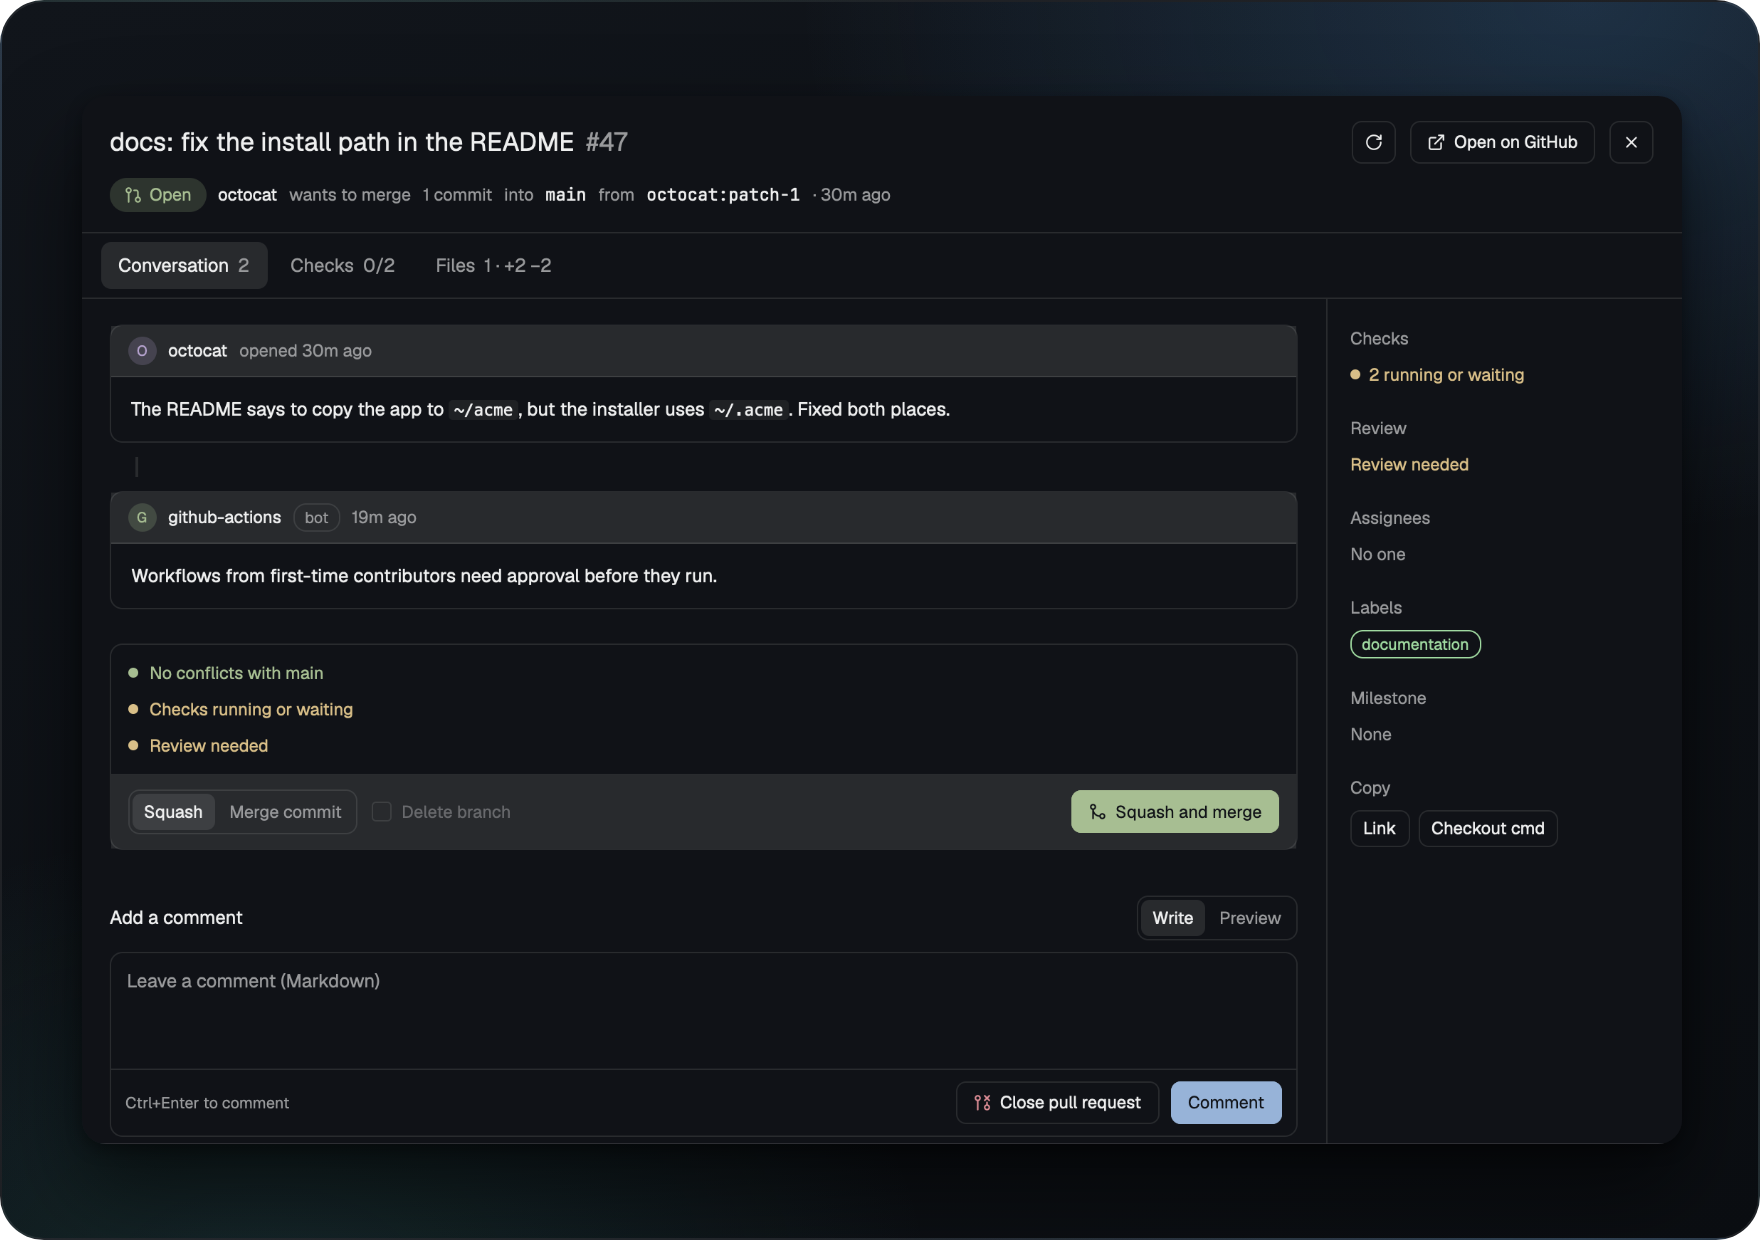
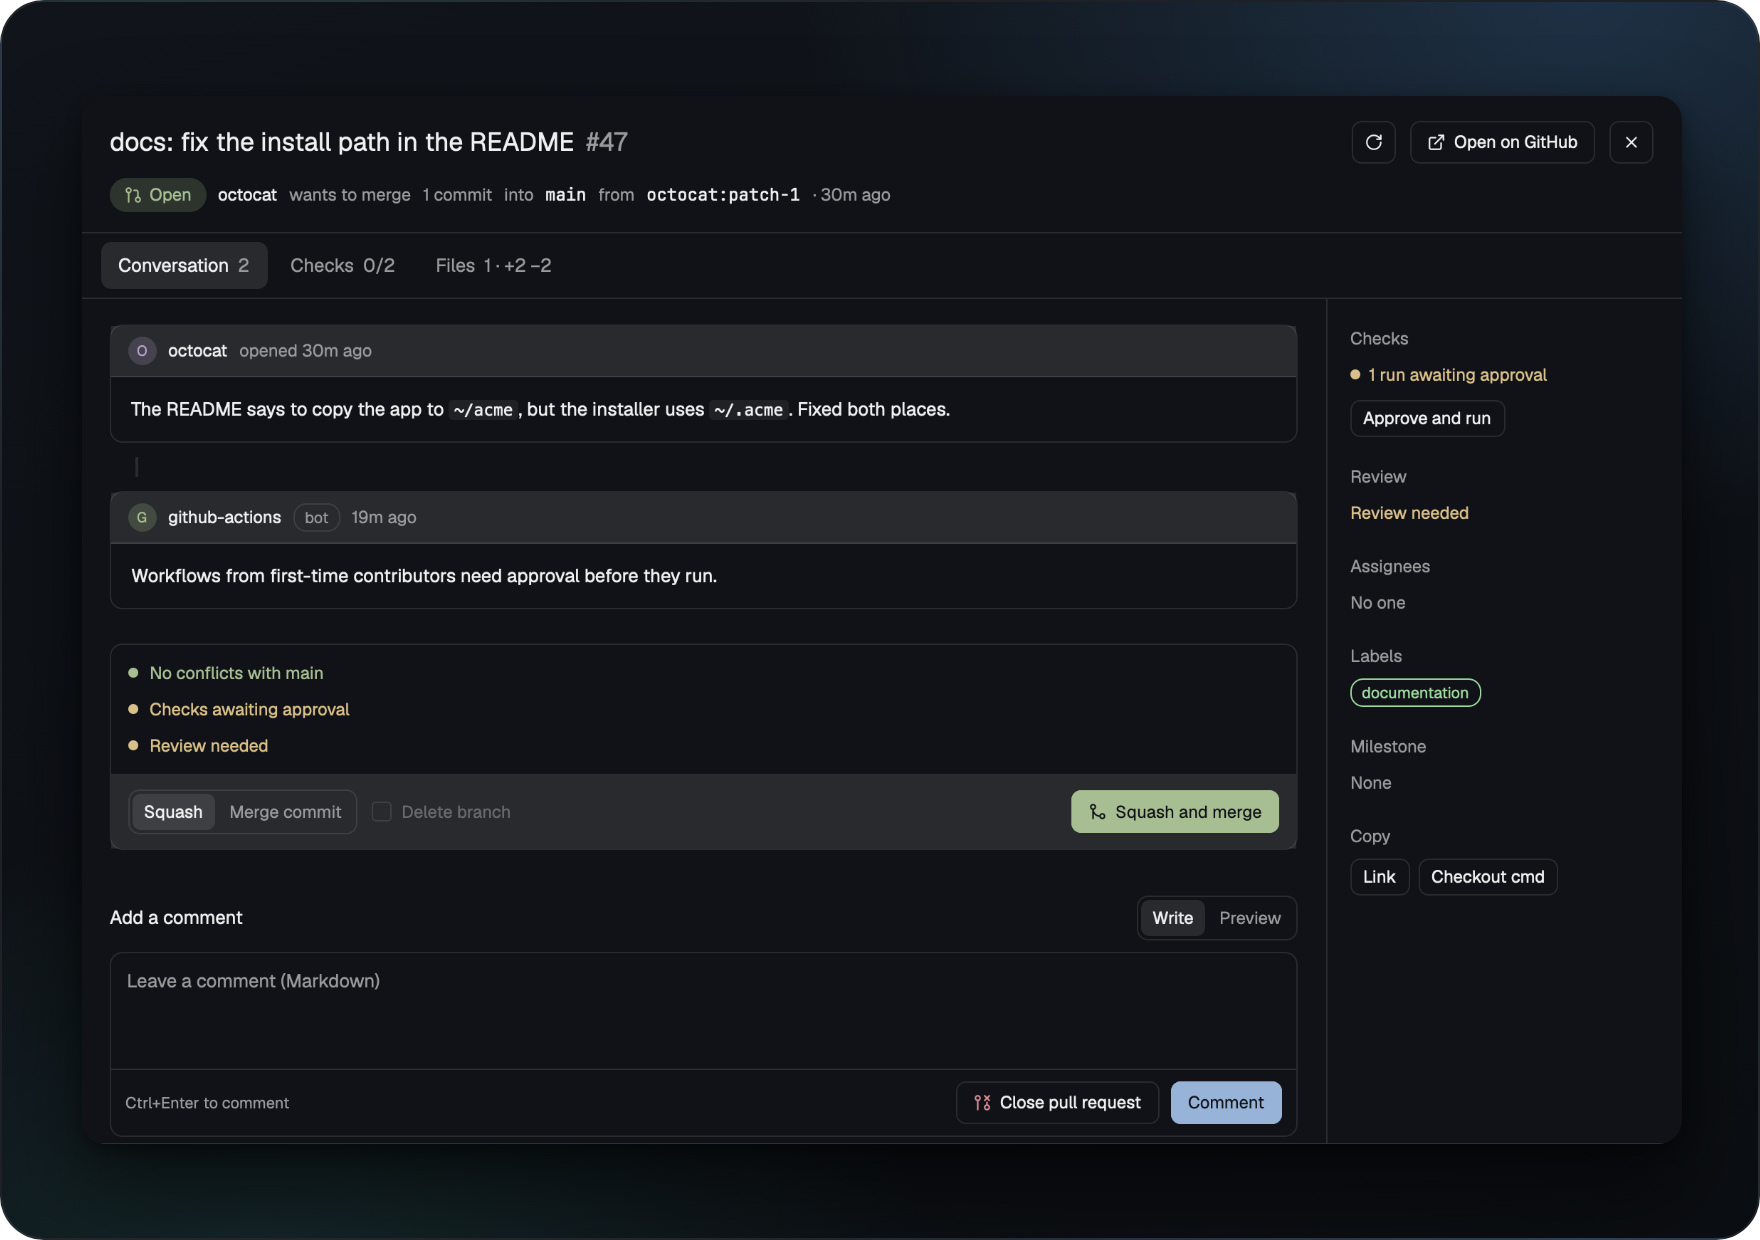
feat: approve and run workflow runs from the pull request overlay
Workflow runs of first-time contributors and forks wait for approval.
The overlay now shows how many wait and an Approve and run button; the
first click names whose code will run on the repository's runners, the
second approves every waiting run with
gh api -X POST repos/<repo>/actions/runs/<id>/approve.

- lib/approve.js: the query for waiting runs of the head commit, their
  ids, and the approve call (run ids only)
- merge box: "Checks awaiting approval" instead of the pending line
- guide: what approving means on GitHub-hosted and self-hosted runners
- fake gh and screenshot of the pull request overlay updated

diff --git a/mods/ghchecker/viewer.js b/mods/ghchecker/viewer.js
@@ -13,11 +13,12 @@ import { entries, tally, loginOf } from "./lib/timeline.js";
 import { split, linkRefs } from "./lib/markdown.js";
 import { hostOf } from "./lib/images.js";
 import { mergeMethods, preferredMethod, mergeBlocked, canDeleteBranch, mergeArgs } from "./lib/merge.js";
+import { awaitingPath, awaitingRuns, approveArgs } from "./lib/approve.js";
 import { ago, duration } from "./lib/time.js";
 
 const FIELDS = {
   issue: "number,title,body,author,state,stateReason,labels,assignees,createdAt,updatedAt,comments,url,milestone,closedByPullRequestsReferences,reactionGroups",
-  pr: "number,title,body,author,state,isDraft,labels,assignees,createdAt,updatedAt,comments,url,milestone,reactionGroups,headRefName,baseRefName,headRepositoryOwner,isCrossRepository,additions,deletions,changedFiles,files,commits,reviewDecision,statusCheckRollup,mergeable,reviewRequests,reviews,closingIssuesReferences,mergedAt",
+  pr: "number,title,body,author,state,isDraft,headRefOid,labels,assignees,createdAt,updatedAt,comments,url,milestone,reactionGroups,headRefName,baseRefName,headRepositoryOwner,isCrossRepository,additions,deletions,changedFiles,files,commits,reviewDecision,statusCheckRollup,mergeable,reviewRequests,reviews,closingIssuesReferences,mergedAt",
 };
 const INFO = "squashMergeAllowed,mergeCommitAllowed,rebaseMergeAllowed,deleteBranchOnMerge";
 const LINK = /^https:\/\/github\.com\/([\w.-]+\/[\w.-]+)\/(issues|pull)\/(\d+)(?:[/?#].*)?$/;
@@ -64,6 +65,10 @@ export class Viewer {
         if (kind === "issue" && item.url.includes("/pull/")) { this.kind = "pr"; return this.load(cx); } // #12 can be a pull request
         Object.assign(item, { repo: this.repo }, kind === "pr" ? { checks: checksOf(item) } : {});
         this.items[key] = item;
+        // Runs of an open pull request that wait for approval (Approve and run).
+        if (kind === "pr" && upper(item.state) === "OPEN" && item.headRefOid) {
+          item.awaiting = awaitingRuns(await ghJson(["api", awaitingPath(this.repo, item.headRefOid)]).catch(() => null));
+        }
         if (pages) this.threads[key] = entries(pages.flat());
         if (still()) this.item = item;
       } catch (e) { if (still()) this.error = String(e?.message ?? e); }
@@ -135,6 +140,22 @@ export class Viewer {
     keepMethod(method);
     this.act("Merging", mergeArgs(this.number, this.repo, method, this.deleteBranch && canDeleteBranch(this.item)), cx,
       () => notify({ title: "Pull request merged", body: `${this.repo}#${this.number}`, level: "success", timeout: 3000 }));
+  }
+
+  // Approve and run: a first click asks (the pull request's code runs on the repository's runners), the second
+  // approves every waiting run.
+  approve(cx) {
+    if (!this.approving) { this.approving = true; cx.notify(); return; }
+    this.approving = false;
+    const runs = this.item?.awaiting ?? [], repo = this.repo, key = this.key();
+    if (this.busy || !runs.length) return;
+    this.busy = "Approving"; this.error = null;
+    cx.spawn(async (cx) => {
+      try { for (const r of runs) await gh(approveArgs(repo, r.id)); notify({ title: "Runs approved", body: `${runs.length} workflow run${runs.length === 1 ? "" : "s"} of #${this.number}`, level: "success", timeout: 3000 }); }
+      catch (e) { this.error = String(e?.message ?? e); }
+      finally { this.busy = null; setShared("ghchecker.changed", { repo, at: Date.now() }); if (this.key() === key) this.load(cx); cx.notify(); }
+    });
+    cx.notify();
   }
 
   copy(cx, text, what) {
@@ -328,8 +349,9 @@ export class Viewer {
     const line = (color, text) => h_flex().gap(8).items_center().text_color(color).child(div().size(7).flex_none().rounded(4).bg(color)).child(text);
     const lines = v_flex().gap(6).px(12).py(10).text_size(12).border_b(1).border_color(t.border)
       .child(!known ? line(t.muted, "Checking for conflicts…") : conflict ? line(c.failure, `Conflicts with ${i.baseRefName}`) : line(c.success, `No conflicts with ${i.baseRefName}`))
-      .child(checks.state === "failure" ? line(c.failure, `${checks.failed.length} check${checks.failed.length === 1 ? "" : "s"} failed`)
-        : checks.state === "pending" ? line(c.running, "Checks running or waiting") : checks.state === "success" ? line(c.success, "All checks passed") : line(t.muted, "No checks"))
+      .when((i.awaiting ?? []).length > 0, (e) => e.child(line(c.running, "Checks awaiting approval")))
+      .when(!(checks.state === "pending" && (i.awaiting ?? []).length), (e) => e.child(checks.state === "failure" ? line(c.failure, `${checks.failed.length} check${checks.failed.length === 1 ? "" : "s"} failed`)
+        : checks.state === "pending" ? line(c.running, "Checks running or waiting") : checks.state === "success" ? line(c.success, "All checks passed") : line(t.muted, "No checks")))
       .child(line(c[review.tone], review.label === "No review" ? "No review required" : review.label))
       .when(Boolean(i.isDraft), (e) => e.child(line(t.muted, "Still a draft")));
     const bar = h_flex().gap(10).flex_wrap().items_center().px(12).py(10).bg(t.raised).text_size(12);
@@ -354,6 +376,19 @@ export class Viewer {
       .child(button("merge", label, t, (_e, cx) => this.merge(cx), { tone: c.success, enabled: !blocked && !busy, icon: "pr-merged", tooltip: fork ? "The branch lives in a fork: it stays" : null })));
   }
 
+  // The Checks part of a pull request whose runs wait for approval.
+  approval(i, t) {
+    const c = tones(t), n = i.awaiting.length, who = i.headRepositoryOwner?.login ?? i.author?.login ?? "the author", busy = Boolean(this.busy);
+    return v_flex().gap(8)
+      .child(h_flex().gap(6).items_center().text_color(c.running).child(div().size(7).rounded(4).bg(c.running)).child(`${n} run${n === 1 ? "" : "s"} awaiting approval`))
+      .when(!this.approving, (e) => e.child(h_flex().child(button("approve", "Approve and run", t, (_e, cx) => this.approve(cx), { small: true, enabled: !busy }))))
+      .when(Boolean(this.approving), (e) => e
+        .child(div().text_color(t.foreground).child(`Runs code from ${who} on this repository's runners. Read the changes first.`))
+        .child(h_flex().gap(6)
+          .child(button("approve-cancel", "Cancel", t, (_e, cx) => { this.approving = false; cx.notify(); }, { small: true }))
+          .child(button("approve-confirm", "Approve and run", t, (_e, cx) => this.approve(cx), { small: true, tone: c.running, enabled: !busy }))));
+  }
+
   // ---- the right column ----
   aside(i, t, cx) {
     const c = tones(t), pr = this.pr(), quiet = (text, color = null) => div().text_color(color ?? t.muted).child(text);
@@ -366,7 +401,7 @@ export class Viewer {
     const linked = pr ? i.closingIssuesReferences ?? [] : i.closedByPullRequestsReferences ?? [];
     return v_flex().id("aside").w(250).flex_none().min_h(0).overflow_y_scrollbar().border_l(1).border_color(t.border).px(16).py(18).gap(18).text_size(12)
       .when(pr, (e) => e
-        .child(part("Checks", checkLine))
+        .child(part("Checks", (i.awaiting ?? []).length ? this.approval(i, t) : checkLine))
         .child(part("Review", quiet(review.label, c[review.tone]))))
       .child(part("Assignees", (i.assignees ?? []).length ? v_flex().gap(6).children(i.assignees.map((a) => h_flex().gap(8).items_center()
         .child(this.face(a.login, null, 18, t, cx)).child(div().truncate().child(display(a.login))))) : quiet("No one")))

diff --git a/test/approve.test.js b/test/approve.test.js
@@ -1,0 +1,25 @@
+import { test } from "node:test";
+import assert from "node:assert/strict";
+import { awaitingPath, awaitingRuns, approveArgs } from "../mods/ghchecker/lib/approve.js";
+
+test("awaitingPath asks for the runs of the head commit that wait for approval", () => {
+  assert.equal(awaitingPath("acme/acme-app", "4b825dc6"), "repos/acme/acme-app/actions/runs?head_sha=4b825dc6&status=action_required&per_page=50");
+  assert.match(awaitingPath("acme/acme-app", "a&b=c"), /head_sha=a%26b%3Dc&/);
+});
+
+test("awaitingRuns keeps runs that wait for approval", () => {
+  const answer = { workflow_runs: [
+    { id: 1, name: "CI", status: "action_required", conclusion: null },
+    { id: 2, name: "Lint", status: "completed", conclusion: "action_required" },
+    { id: 3, name: "Deploy", status: "completed", conclusion: "success" },
+  ] };
+  assert.deepEqual(awaitingRuns(answer), [{ id: 1, name: "CI" }, { id: 2, name: "Lint" }]);
+  assert.deepEqual(awaitingRuns(null), []);
+  assert.deepEqual(awaitingRuns({}), []);
+});
+
+test("approveArgs: the gh call, only for a run id", () => {
+  assert.deepEqual(approveArgs("acme/acme-app", 9129), ["api", "-X", "POST", "repos/acme/acme-app/actions/runs/9129/approve"]);
+  assert.deepEqual(approveArgs("acme/acme-app", "42")[3], "repos/acme/acme-app/actions/runs/42/approve");
+  for (const bad of ["1/../x", "abc", 0, -3, null]) assert.throws(() => approveArgs("acme/acme-app", bad), /not a run id/, String(bad));
+});

diff --git a/mods/ghchecker/lib/approve.js b/mods/ghchecker/lib/approve.js
@@ -1,0 +1,20 @@
+// "Approve and run": workflow runs of a pull request that wait for a maintainer's approval (first-time
+// contributors, forks). GitHub marks them action_required; approving runs the pull request's code on the
+// repository's runners.
+
+const ACTION_REQUIRED = "action_required";
+
+// The API query for the runs of a commit that wait for approval.
+export const awaitingPath = (repo, sha) => `repos/${repo}/actions/runs?head_sha=${encodeURIComponent(sha)}&status=${ACTION_REQUIRED}&per_page=50`;
+
+// The ids of the runs that wait, from that query's answer (status or conclusion action_required).
+export function awaitingRuns(answer) {
+  return (answer?.workflow_runs ?? []).filter((r) => r.status === ACTION_REQUIRED || r.conclusion === ACTION_REQUIRED)
+    .map((r) => ({ id: r.id, name: r.name ?? r.display_title ?? "workflow" }));
+}
+
+// gh api -X POST repos/<repo>/actions/runs/<id>/approve
+export function approveArgs(repo, id) {
+  if (!Number.isInteger(Number(id)) || Number(id) <= 0) throw new Error(`not a run id: ${id}`);
+  return ["api", "-X", "POST", `repos/${repo}/actions/runs/${Number(id)}/approve`];
+}

diff --git a/test/screenshot-hook.test.js b/test/screenshot-hook.test.js
@@ -58,7 +58,8 @@ test("the fake gh answers every call the panel makes", () => {
   assert.equal(gh("api", "user", "--jq", ".login").stdout.trim(), "mona");
   for (const args of [["issue", "list", "-R", "acme/acme-app", "--state", "open"], ["pr", "list", "-R", "acme/acme-app", "--state", "merged"], ["run", "list", "-R", "acme/acme-app"],
     ["api", "repos/acme/acme-app/milestones?state=all&per_page=100"], ["repo", "view", "acme/acme-app"], ["pr", "view", "47"], ["issue", "view", "46"], ["run", "view", "9127", "--json", "jobs"],
-    ["api", "--paginate", "--slurp", "repos/acme/acme-app/issues/47/timeline?per_page=100"]]) {
+    ["api", "--paginate", "--slurp", "repos/acme/acme-app/issues/47/timeline?per_page=100"],
+    ["api", "repos/acme/acme-app/actions/runs?head_sha=4b825dc642cb6eb9a060e54bf8d69288fbee4904&status=action_required&per_page=50"]]) {
     const r = gh(...args);
     assert.equal(r.status, 0, args.join(" "));
     assert.doesNotThrow(() => JSON.parse(r.stdout), args.join(" "));

diff --git a/docs/GUIDE.md b/docs/GUIDE.md
@@ -8,7 +8,7 @@ Everything GitHub Checker does, in detail. For the overview, see the [README](..
 - [Install](#install): [Manual install](#manual-install)
 - [The panel](#the-panel): [Following the tab](#following-the-tab), [Syncing](#syncing), [Status bar](#status-bar)
 - [Issues](#issues)
-- [Pull requests](#pull-requests): [Merge box](#merge-box)
+- [Pull requests](#pull-requests): [Approve and run](#approve-and-run), [Merge box](#merge-box)
 - [Actions](#actions)
 - [Keys](#keys)
 - [Settings](#settings)
@@ -93,6 +93,10 @@ At the bottom, the same on every tab: stars, forks, watchers, open issues, open 
 - **Each row:** state icon (open, draft, merged, closed), labels, `head → base` (`owner:branch` for a fork), the checks (`2 failed`, `Running`, `Waiting`, `Passed`, `No checks`) and the review decision.
 - **The overlay** has three sections: **Conversation**, **Checks** (each check with its time; a click opens it on GitHub) and **Files** (with lines added and removed). On the right: checks, review, assignees, labels, milestone, the issues it closes, and Copy for the link and `gh pr checkout <n> -R <repo>`.
 
+### Approve and run
+
+Workflow runs of a first-time contributor or a fork wait for a maintainer's approval. The PR overlay then shows `1 run awaiting approval` under Checks and **Approve and run**. The first click asks, the second approves every waiting run (`gh api -X POST repos/<repo>/actions/runs/<id>/approve`). Approving runs the pull request's code on the repository's runners: read the changes (Files) first. On GitHub-hosted runners each job gets a fresh machine, a pull request from a fork gets a read-only token and no secrets. Self-hosted runners keep what a job leaves behind: don't approve strangers' runs there.
+
 ### Merge box
 
 Below the conversation of an open pull request:
@@ -145,7 +149,7 @@ A dotted key (`"external.includeBots": true`) works too. All settings are define
 
 ## What it runs and touches
 
-- **gh**, here: `gh api user`, `gh issue list|view|comment|close|reopen`, `gh pr list|view|comment|close|reopen|merge`, `gh run list|view|rerun|cancel`, `gh repo view`, `gh api repos/<repo>/milestones` and `gh api repos/<repo>/issues/<n>/timeline`. Writes run only on your click: comment, close, reopen, merge, re-run, cancel.
+- **gh**, here: `gh api user`, `gh issue list|view|comment|close|reopen`, `gh pr list|view|comment|close|reopen|merge`, `gh run list|view|rerun|cancel`, `gh repo view`, `gh api repos/<repo>/milestones` and `gh api repos/<repo>/issues/<n>/timeline`. `gh api repos/<repo>/actions/runs?head_sha=…` and `gh api -X POST …/approve`. Writes run only on your click: comment, close, reopen, merge, re-run, cancel, approve.
 - **git**, in the terminal's folder (on its machine): `git remote -v`. Nothing else.
 - **Pictures** in issue bodies and avatars are downloaded with `curl`, but only from GitHub's own hosts: `github.com` (attachments under `/user-attachments/` and `/<login>.png` avatars), `avatars.githubusercontent.com`, `camo.githubusercontent.com` and the other `*.githubusercontent.com` hosts, over https only (also after redirects, at most 5), at most 20 MB. A picture from anywhere else is not loaded: it shows as `Image from <host> · open it`, a link to your browser. So a stranger's issue can't track when you read it or make this computer call an internal address.
 - **The gh token** goes along only for `github.com` itself (private attachments), on stdin, never on a command line. curl drops it when GitHub redirects to its storage host.

diff --git a/README.md b/README.md
@@ -50,6 +50,7 @@ Then click `GitHub` in the tab bar.
 ### Pull request overlay
 
 - **Conversation** with pictures and events, **Checks** and **Files** in their own sections; comment, close or reopen.
+- **Approve and run** for workflow runs of first-time contributors and forks, with a second click to confirm.
 - **Merge box:** conflicts, checks and review in one place, only the merge methods the repository allows, Delete branch, and a second click to confirm. Locked for drafts, conflicts and failed checks.
 
 ![A pull request with its merge box](screenshots/pr-overlay.png)
